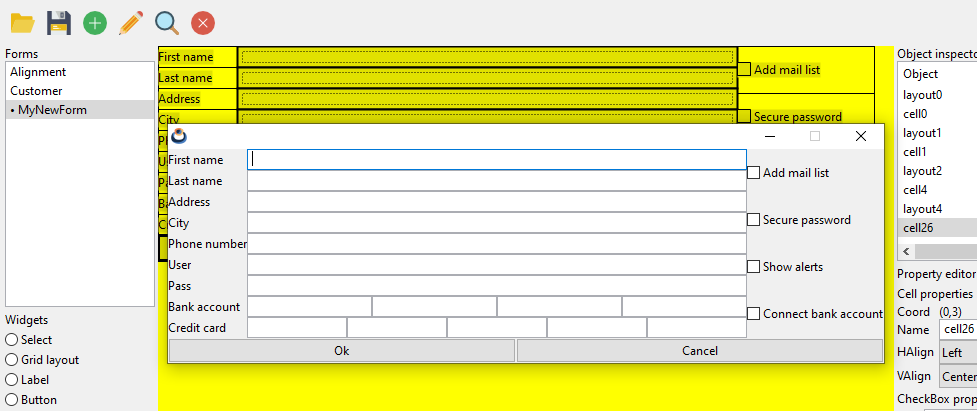
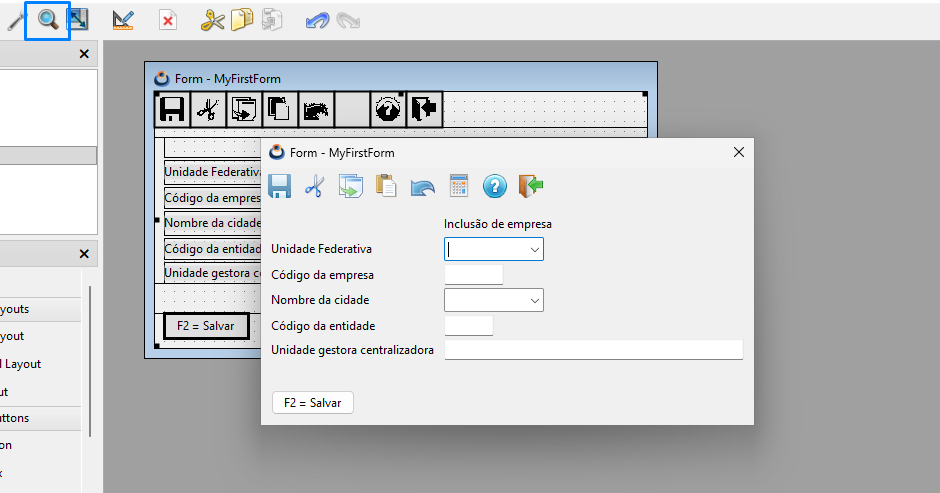
[GTNAP-623] wip: Designer documentation.

diff --git a/contrib/gtnap/src/napdesign/dialogs.c b/contrib/gtnap/src/napdesign/dialogs.c
@@ -964,8 +964,8 @@ FListBox *dialog_new_listbox(Window *parent, const Font *font, const DSelect *se
         Label *label2 = label_create();
         Layout *layout2 = i_value_updown_layout();
         Layout *layout3 = i_value_updown_layout();
-        label_text(label1, gui_text(TEXT_MIN_WIDTH));
-        label_text(label2, gui_text(TEXT_MIN_HEIGHT));
+        label_text(label1, gui_text(TEXT_WIDTH));
+        label_text(label2, gui_text(TEXT_HEIGHT));
         layout_label(layout1, label1, 0, 0);
         layout_label(layout1, label2, 0, 1);
         layout_layout(layout1, layout2, 1, 0);
@@ -1004,7 +1004,7 @@ FSlider *dialog_new_slider(Window *parent, const Font *font, const DSelect *sel)
     {
         Label *label1 = label_create();
         Layout *layout2 = i_value_updown_layout();
-        label_text(label1, gui_text(TEXT_MIN_WIDTH));
+        label_text(label1, gui_text(TEXT_WIDTH));
         layout_label(layout1, label1, 0, 0);
         layout_layout(layout1, layout2, 1, 0);
         layout_hmargin(layout1, 0, 5);
@@ -1040,7 +1040,7 @@ FVSlider *dialog_new_vslider(Window *parent, const Font *font, const DSelect *se
     {
         Label *label1 = label_create();
         Layout *layout2 = i_value_updown_layout();
-        label_text(label1, gui_text(TEXT_MIN_HEIGHT));
+        label_text(label1, gui_text(TEXT_HEIGHT));
         layout_label(layout1, label1, 0, 0);
         layout_layout(layout1, layout2, 1, 0);
         layout_hmargin(layout1, 0, 5);
@@ -1076,7 +1076,7 @@ FProgress *dialog_new_progress(Window *parent, const Font *font, const DSelect *
     {
         Label *label1 = label_create();
         Layout *layout2 = i_value_updown_layout();
-        label_text(label1, gui_text(TEXT_MIN_WIDTH));
+        label_text(label1, gui_text(TEXT_WIDTH));
         layout_label(layout1, label1, 0, 0);
         layout_layout(layout1, layout2, 1, 0);
         layout_hmargin(layout1, 0, 5);
@@ -1114,8 +1114,8 @@ FView *dialog_new_view(Window *parent, const Font *font, const DSelect *sel)
         Label *label2 = label_create();
         Layout *layout2 = i_value_updown_layout();
         Layout *layout3 = i_value_updown_layout();
-        label_text(label1, gui_text(TEXT_MIN_WIDTH));
-        label_text(label2, gui_text(TEXT_MIN_HEIGHT));
+        label_text(label1, gui_text(TEXT_WIDTH));
+        label_text(label2, gui_text(TEXT_HEIGHT));
         layout_label(layout1, label1, 0, 0);
         layout_label(layout1, label2, 0, 1);
         layout_layout(layout1, layout2, 1, 0);
@@ -1156,8 +1156,8 @@ FSView *dialog_new_sview(Window *parent, const Font *font, const DSelect *sel)
         Label *label2 = label_create();
         Layout *layout2 = i_value_updown_layout();
         Layout *layout3 = i_value_updown_layout();
-        label_text(label1, gui_text(TEXT_MIN_WIDTH));
-        label_text(label2, gui_text(TEXT_MIN_HEIGHT));
+        label_text(label1, gui_text(TEXT_WIDTH));
+        label_text(label2, gui_text(TEXT_HEIGHT));
         layout_label(layout1, label1, 0, 0);
         layout_label(layout1, label2, 0, 1);
         layout_layout(layout1, layout2, 1, 0);
@@ -1198,8 +1198,8 @@ FText *dialog_new_text(Window *parent, const Font *font, const DSelect *sel)
         Label *label2 = label_create();
         Layout *layout2 = i_value_updown_layout();
         Layout *layout3 = i_value_updown_layout();
-        label_text(label1, gui_text(TEXT_MIN_WIDTH));
-        label_text(label2, gui_text(TEXT_MIN_HEIGHT));
+        label_text(label1, gui_text(TEXT_WIDTH));
+        label_text(label2, gui_text(TEXT_HEIGHT));
         layout_label(layout1, label1, 0, 0);
         layout_label(layout1, label2, 0, 1);
         layout_layout(layout1, layout2, 1, 0);
@@ -1249,8 +1249,8 @@ FImage *dialog_new_image(Window *parent, const Font *font, const DSelect *sel, c
         Button *button = button_push();
         ImageView *view = imageview_create();
         const Image *image = nflib_default_image();
-        label_text(label1, gui_text(TEXT_MIN_WIDTH));
-        label_text(label2, gui_text(TEXT_MIN_HEIGHT));
+        label_text(label1, gui_text(TEXT_WIDTH));
+        label_text(label2, gui_text(TEXT_HEIGHT));
         label_text(label3, gui_text(TEXT_PREV_IMAGE));
         label_text(label4, gui_text(TEXT_IMAGE_PATH));
         label_text(label5, gui_text(TEXT_DEFAULT));

diff --git a/contrib/gtnap/src/napdesign/propedit.c b/contrib/gtnap/src/napdesign/propedit.c
@@ -1348,7 +1348,7 @@ static Layout *i_edit_layout(PropData *data)
     Button *check2 = button_check();
     cassert_no_null(data);
     label_text(label1, gui_text(TEXT_TEXT_ALIGN));
-    label_text(label2, gui_text(TEXT_MIN_WIDTH));
+    label_text(label2, gui_text(TEXT_WIDTH));
     label_text(label3, gui_text(TEXT_PASSMODE));
     label_text(label4, gui_text(TEXT_AUTOSELECT));
     popup_tooltip(popup, gui_text(TIP_EDIT_ALIGN));
@@ -1450,8 +1450,8 @@ static Layout *i_listbox_layout(PropData *data)
     Label *label1 = label_create();
     Label *label2 = label_create();
     cassert_no_null(data);
-    label_text(label1, gui_text(TEXT_MIN_WIDTH));
-    label_text(label2, gui_text(TEXT_MIN_HEIGHT));
+    label_text(label1, gui_text(TEXT_WIDTH));
+    label_text(label2, gui_text(TEXT_HEIGHT));
     layout_label(layout2, label1, 0, 0);
     layout_label(layout2, label2, 0, 1);
     layout_layout(layout2, layout4, 1, 0);
@@ -1487,7 +1487,7 @@ static Layout *i_slider_layout(PropData *data)
     Layout *layout2 = i_value_updown_layout(gui_text(TIP_SLIDER_MWIDTH));
     Label *label1 = label_create();
     cassert_no_null(data);
-    label_text(label1, gui_text(TEXT_MIN_WIDTH));
+    label_text(label1, gui_text(TEXT_WIDTH));
     layout_label(layout1, label1, 0, 0);
     layout_layout(layout1, layout2, 1, 0);
     layout_hexpand(layout1, 1);
@@ -1517,7 +1517,7 @@ static Layout *i_vslider_layout(PropData *data)
     Layout *layout2 = i_value_updown_layout(gui_text(TIP_SLIDER_MHEIGHT));
     Label *label1 = label_create();
     cassert_no_null(data);
-    label_text(label1, gui_text(TEXT_MIN_HEIGHT));
+    label_text(label1, gui_text(TEXT_HEIGHT));
     layout_label(layout1, label1, 0, 0);
     layout_layout(layout1, layout2, 1, 0);
     layout_hexpand(layout1, 1);
@@ -1547,7 +1547,7 @@ static Layout *i_progress_layout(PropData *data)
     Layout *layout2 = i_value_updown_layout(gui_text(TIP_PROGRESS_MWIDTH));
     Label *label1 = label_create();
     cassert_no_null(data);
-    label_text(label1, gui_text(TEXT_MIN_WIDTH));
+    label_text(label1, gui_text(TEXT_WIDTH));
     layout_label(layout1, label1, 0, 0);
     layout_layout(layout1, layout2, 1, 0);
     layout_hexpand(layout1, 1);
@@ -1579,8 +1579,8 @@ static Layout *i_view_layout(PropData *data)
     Label *label1 = label_create();
     Label *label2 = label_create();
     cassert_no_null(data);
-    label_text(label1, gui_text(TEXT_MIN_WIDTH));
-    label_text(label2, gui_text(TEXT_MIN_HEIGHT));
+    label_text(label1, gui_text(TEXT_WIDTH));
+    label_text(label2, gui_text(TEXT_HEIGHT));
     layout_label(layout1, label1, 0, 0);
     layout_label(layout1, label2, 0, 1);
     layout_layout(layout1, layout2, 1, 0);
@@ -1615,8 +1615,8 @@ static Layout *i_sview_layout(PropData *data)
     Label *label1 = label_create();
     Label *label2 = label_create();
     cassert_no_null(data);
-    label_text(label1, gui_text(TEXT_MIN_WIDTH));
-    label_text(label2, gui_text(TEXT_MIN_HEIGHT));
+    label_text(label1, gui_text(TEXT_WIDTH));
+    label_text(label2, gui_text(TEXT_HEIGHT));
     layout_label(layout1, label1, 0, 0);
     layout_label(layout1, label2, 0, 1);
     layout_layout(layout1, layout2, 1, 0);
@@ -1653,8 +1653,8 @@ static Layout *i_text_layout(PropData *data)
     Label *label3 = label_create();
     Button *check = button_check();
     cassert_no_null(data);
-    label_text(label1, gui_text(TEXT_MIN_WIDTH));
-    label_text(label2, gui_text(TEXT_MIN_HEIGHT));
+    label_text(label1, gui_text(TEXT_WIDTH));
+    label_text(label2, gui_text(TEXT_HEIGHT));
     label_text(label3, gui_text(TEXT_READ_ONLY));
     layout_label(layout1, label1, 0, 0);
     layout_label(layout1, label2, 0, 1);
@@ -1700,8 +1700,8 @@ static Layout *i_image_layout(PropData *data)
     Label *label4 = label_create();
     PopUp *popup = popup_create();
     cassert_no_null(data);
-    label_text(label1, gui_text(TEXT_MIN_WIDTH));
-    label_text(label2, gui_text(TEXT_MIN_HEIGHT));
+    label_text(label1, gui_text(TEXT_WIDTH));
+    label_text(label2, gui_text(TEXT_HEIGHT));
     label_text(label3, gui_text(TEXT_SCALE));
     label_text(label4, gui_text(TEXT_IMAGE));
     popup_tooltip(popup, gui_text(TIP_IMAGE_SCALE));

diff --git a/contrib/gtnap/doc/Designer.md b/contrib/gtnap/doc/Designer.md
@@ -285,9 +285,13 @@ While our form is fully functional, it is not very aesthetic. Let's give it some
 
 ## Simulate Forms
 
-* Press the icon (ðŸ”�) _Simulate current form_ to check the final result.
+* As we have already seen in previous steps, we can interact with the form under construction, at any time, using the `Simulate Form` (🔍) button or menu option.
 
-    ![simulate2](./images/simulate2.png)
+    ![simulate1](./images/simulate1.png)
+
+## Add/remove columns and rows
+
+## Promote layouts
 
 ## Cut, Copy, Paste
 
@@ -373,42 +377,101 @@ For each interior element of a layout (cell), a series of properties are defined
 
 More information in the [official NAppGUI documentation](https://nappgui.com/en/gui/button.html).
 
+- **Text:** Text that will be displayed on the button.
+
+- **Tooltip:** Text that will be displayed above the button when the mouse cursor is over it.
+
+- **Width:** Forced button width. If `0` (default), the button will be automatically sized based on the text. It is not recommended to change this value.
+
+- **HorzPad:** Inner separation between the horizontal border of the button and the text. If `-1` the default padding of each window manager will be left (recommended).
+
+- **VertPad:** Inner separation between the vertical edge of the button and the text. If `-1` the default padding of each window manager will be left (recommended).
+
 ### Check Box properties
 
 More information in the [official NAppGUI documentation](https://nappgui.com/en/gui/button.html).
+
+- **Text:** Text that will be displayed to the right of the check box.
 
 ### Radio Button properties
 
 More information in the [official NAppGUI documentation](https://nappgui.com/en/gui/button.html).
 
+- **Text:** Text that will be displayed to the right of the radio.
+
 ### Tool Button properties
 
 More information in the [official NAppGUI documentation](https://nappgui.com/en/gui/button.html).
+
+- **Tooltip:** Text that will be displayed above the button when the mouse cursor is over it.
+
+- **HorzPad:** Inner separation between the horizontal border of the button and the image. If `-1` the default padding of each window manager will be left (recommended).
+
+- **VertPad:** Inner separation between the vertical edge of the button and the image. If `-1` the default padding of each window manager will be left (recommended).
+
+- **Icon:** Relative path between the form location and the icon location. It cannot be changed directly, it is calculated based on the selected icon file. If we put the mouse over the button [...] we will see the complete relative path.
 
 ### Label properties
 
 More information in the [official NAppGUI documentation](https://nappgui.com/en/gui/label.html).
 
+- **Text:** Text displayed on the label.
+
+- **Width:** Maximum width of the control. If it is `0` (default) the width of the control will be automatically calculated based on the text it contains.
+
+- **Multiline:** If checked (true) the text will expand into several lines when reaching the maximum width (Width). Otherwise, the text will be cut off showing ellipses (...).
+
+- **Align:** Horizontal interior alignment of the text, in case the Label control is wider than the text itself.
+
 ### Edit Box properties
 
 More information in the [official NAppGUI documentation](https://nappgui.com/en/gui/edit.html).
+
+- **TAlign:** Inside text alignment.
+
+- **Width:** Default width of the text control. The height will be calculated automatically based on the window manager standards.
+
+- **Passmode:** Indicates whether the control contains sensitive information. In this case it will not show the text but `(*****)`.
+
+- **Autoselect:** Indicates whether the text will be automatically selected each time the control gains keyboard focus.
 
 ### Combo Box properties
 
 More information in the [official NAppGUI documentation](https://nappgui.com/en/gui/combo.html).
 
+- **TAlign:** Inside text alignment.
+
+- **Width:** Default width of the text control. The height will be calculated automatically based on the window manager standards.
+
+- **Passmode:** Indicates whether the control contains sensitive information. In this case it will not show the text but `(*****)`.
+
+- **Autoselect:** Indicates whether the text will be automatically selected each time the control gains keyboard focus.
+
 ### Text View properties
 
 More information in the [official NAppGUI documentation](https://nappgui.com/en/gui/textview.html).
+
+- **Width:** Default width of the text control.
+
+- **Height:** Default height of the text control.
+
+- **Read only:** If it is checked (true) the text cannot be edited.
 
 ### List Box properties
 
 More information in the [official NAppGUI documentation](https://nappgui.com/en/gui/listbox.html).
 
+- **Width:** Default width of the list control.
+
+- **Height:** Default height of the list control.
+
+- **Elements:** List of items inside the listbox (text + optional icon). We can add/remove elements using the buttons ![add](./images/plus16.png) ![remove](./images/error16.png) ![retry](./images/retry16.png).
 
 ### PopUp Button properties
 
 More information in the [official NAppGUI documentation](https://nappgui.com/en/gui/popup.html).
+
+- **Elements:** List of items inside the popup (text + optional icon). We can add/remove elements using the buttons ![add](./images/plus16.png) ![remove](./images/error16.png) ![retry](./images/retry16.png).
 
 ### Table View properties
 
@@ -418,22 +481,56 @@ More information in the [official NAppGUI documentation](https://nappgui.com/en/
 
 More information in the [official NAppGUI documentation](https://nappgui.com/en/gui/imageview.html).
 
+- **Width:** Default width of the image control.
+
+- **Height:** Default height of the image control.
+
+- **Scale:** Type of image scaling within the control:
+
+    - **None:** No scaling. The image will be displayed centered at its original resolution. If it does not fit within the control limits, it will be clipped.
+
+    - **Auto:** The image will be scaled to fit the dimensions of the control. Aspect ratio deformations may occur.
+
+    - **Aspect:** The image will be scaled, but maintaining the original aspect ratio. That dimension (horz/vert) that does not match with the control dimension will be centered.
+
+    - **Fit:** The size of the control will be automatically sized to the original size of the image, ignoring the Width/Height parameters.
+
+- **Image:** Relative path between the form location and the icon location. It cannot be changed directly, it is calculated based on the selected icon file. If we put the mouse over the button [...] we will see the complete relative path.
+
 ### Custom View properties
 
 More information in the [official NAppGUI documentation](https://nappgui.com/en/gui/view.html).
+
+- **Width:** Default width of the custom control.
+
+- **Height:** Default height of the custom control.
+
+> **Important:** Custom Views allow you to create custom drawings/scenes and interact with them. This must be done at runtime by the application, remaining outside the scope of the Designer.
 
 ### Scroll View properties
 
 More information in the [official NAppGUI documentation](https://nappgui.com/en/gui/view.html).
 
+- **Width:** Default width of the custom control.
+
+- **Height:** Default height of the custom control.
+
+> **Important:** Like Custom Views, the drawing and management of Scrollbars must be done at runtime by the application.
+
 ### Horizontal Slider properties
 
 More information in the [official NAppGUI documentation](https://nappgui.com/en/gui/slider.html).
+
+- **Width:** Default width of the slider.
 
 ### Vertical Slider properties
 
 More information in the [official NAppGUI documentation](https://nappgui.com/en/gui/slider.html).
 
+- **Height:** Default height of the slider.
+
 ### Progress Bar properties
 
 More information in the [official NAppGUI documentation](https://nappgui.com/en/gui/progress.html).
+
+- **Width:** Default width of the progress bar.
